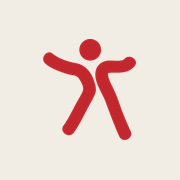
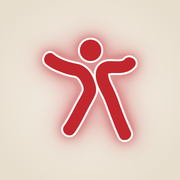
Standard Athena clients get the same format, in Athena's light colours
The app icon becomes the Athena figure with an even white outline and a
warm glow on cream. The standard pack can carry its own logo, so the
Athena wordmark leads the home page with the greeting beneath, and sits
at the top right of the client's record in the clinic (its light-on-dark
version there). Hexagons take the page's own ink, so they read on light
pages too.

Claude-Session: https://claude.ai/code/session_012VsCvy53ZnVdKzqzv2mK1L

Changed region(s): [[0.1667, 0.1389, 0.8333, 0.8611]]

diff --git a/src/lib/appLayout.ts b/src/lib/appLayout.ts
@@ -64,6 +64,9 @@ export type AppLayout = {
   app_name: string;
   app_strapline: string;
   app_logo: string;
+  /** The same logo for a dark page, such as the client's record in the
+   * clinic. Empty uses app_logo everywhere. */
+  app_logo_on_dark: string;
   /** The short line beside the brand's logo under the client's greeting on
    * their home screen, for example "Measure. Move. Recover.". Empty shows
    * the logo alone. Standard Athena keeps David's photo and "Let's Move". */
@@ -101,6 +104,7 @@ export const DEFAULT_APP_LAYOUT: AppLayout = {
   app_name: "",
   app_strapline: "",
   app_logo: "",
+  app_logo_on_dark: "",
   home_tagline: "",
   greeting_image: "",
   app_icon: "",
@@ -141,6 +145,7 @@ export function normaliseAppLayout(raw: unknown): AppLayout {
     app_name: clean(r.app_name, 40),
     app_strapline: clean(r.app_strapline, 120),
     app_logo: safeImagePath(clean(r.app_logo, 600)),
+    app_logo_on_dark: safeImagePath(clean(r.app_logo_on_dark, 600)),
     home_tagline: clean(r.home_tagline, 60),
     greeting_image: safeImagePath(clean(r.greeting_image, 600)),
     app_icon: safeImagePath(clean(r.app_icon, 600)),

diff --git a/src/app/session/SessionHeader.tsx b/src/app/session/SessionHeader.tsx
@@ -56,14 +56,16 @@ export default function SessionHeader({ firstName, greeting = "Hi", eyebrow, sub
   const lines = branded ? taglineLines(brand!.app_layout.home_tagline) : [];
   // A pack with its own app: its logo leads the home page, and no other
   // mark or tagline sits beside the greeting on any screen.
-  const appLogo = branded ? brand!.app_layout.app_logo : "";
+  // The standard Athena pack can set one too (the Athena wordmark), so this
+  // applies to every client, not only those on a brand of their own.
+  const appLogo = brand?.app_layout.app_logo ?? "";
   if (appLogo) {
     const appBlock = (
       <div>
         {home && (
           <div className={styles.homeAppLogo}>
             {/* eslint-disable-next-line @next/next/no-img-element */}
-            <img src={appLogo} alt={brand!.app_layout.app_name || ""} />
+            <img src={appLogo} alt={brand!.app_layout.app_name || brand!.name} />
           </div>
         )}
         {eyebrow && <div className={styles.eyebrow}>{eyebrow}</div>}

diff --git a/src/app/clinic/patients/[id]/ClientRecordShell.tsx b/src/app/clinic/patients/[id]/ClientRecordShell.tsx
@@ -120,11 +120,12 @@ export default async function ClientRecordShell({
               {belowName}
             </div>
           </div>
-          {brand && !brand.isAllDefault && brand.app_layout.app_logo && (
-            // The pack's own app, for example ROAM for Regenerate.
+          {brand && (brand.app_layout.app_logo_on_dark || brand.app_layout.app_logo) && (
+            // The pack's own app, for example ROAM for Regenerate, or the
+            // Athena wordmark for a client on the standard Athena pack.
             // eslint-disable-next-line @next/next/no-img-element
             <img
-              src={brand.app_layout.app_logo}
+              src={brand.app_layout.app_logo_on_dark || brand.app_layout.app_logo}
               alt={brand.app_layout.app_name || ""}
               style={{ height: 72, width: "auto", maxWidth: 200, objectFit: "contain", alignSelf: "center" }}
             />

diff --git a/src/components/passport/Passport.module.css b/src/components/passport/Passport.module.css
@@ -329,4 +329,9 @@
    little room above for the fine lines around them. */
 .hexWrap {
   margin: 6px -8px 2px;
+  /* The hexagons take the page's own ink and card colours, so they read on
+     a light page (standard Athena) as well as on a dark palette. */
+  --hex-line: var(--charcoal);
+  --hex-fill: var(--surface);
+  --hex-outer: var(--border);
 }
